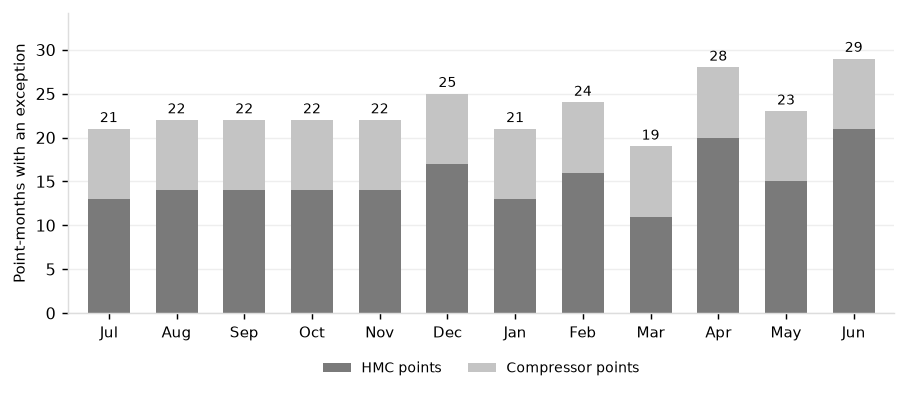
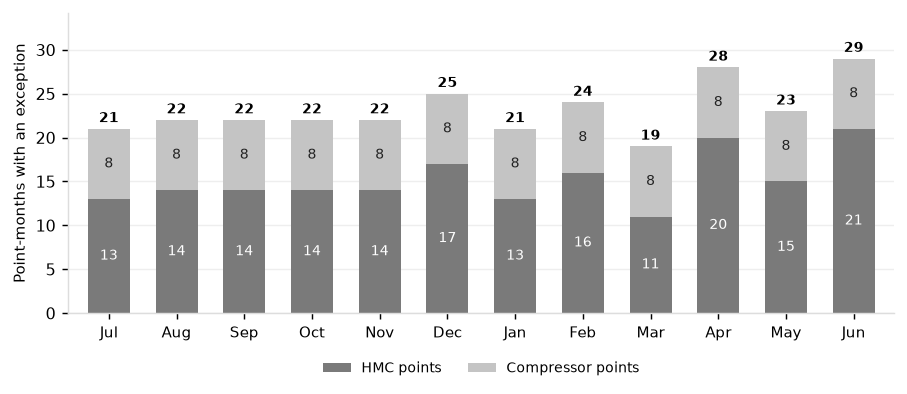
Monitoring report: data labels on the data-quality exception columns

diff --git a/docs/reports/monitoring_report.html b/docs/reports/monitoring_report.html
@@ -78,5 +78,5 @@ table.log td:nth-child(2) { white-space: nowrap; }
 </style></head>
 <body><div class="page-header"><h1>Report: ML Model Monitoring</h1><div class="sub">Created by Brian Davis</div></div>
 <div class="layout"><nav class="toc"><div class="toc-title">Contents</div><a href="#s1">1. Status and Retraining Decision</a><a href="#s2">2. Monitoring Results</a><a class="sub" href="#s21">2.1 Performance</a><a class="sub" href="#s22">2.2 Drift</a><a class="sub" href="#s23">2.3 Data Quality</a><a class="sub" href="#s24">2.4 Champion and Re-centering</a><a href="#s3">3. Monitoring Log</a><a href="#appendix">Appendix</a><a class="sub" href="#aA">Retraining rule</a><a class="sub" href="#aB">Drift references</a></nav>
-<main class="content"><h2 id='s1'>1. Status and Retraining Decision</h2><p>The ML Model was monitored monthly over the evaluation year, July 2025 to June 2026. Catch share and alert rate are the primary rule triggers: when either breaches its limit in two consecutive months, the model is flagged for a full refit. Feature and score drift are secondary rule triggers, reported beside the verdict. The primary rule trigger fired in September and October 2025, on catch shares of 0.33 and 0.50 against a limit of 0.54, so the model is flagged for a full refit; the refit was not run within the evaluation year, and version 13 stayed champion throughout.</p><div class='status-block' style='border-color:#CC0000'><div class='status-header' style='background:#CC0000'><span class='status-icon'>⚠</span><span class='status-label'>REFIT RECOMMENDED</span><span class='status-when'>Triggered Sep 2025</span></div><div class='status-body'><div class='status-meta'><div><span class='meta-label'>Model</span><span class='meta-val'>autoencoder_vendor [16-4-16], version 13, champion all year</span></div><div><span class='meta-label'>Period monitored</span><span class='meta-val'>July 2025 to June 2026</span></div><div><span class='meta-label'>Catch share, year</span><span class='meta-val' style=color:#1A7A3A>23 of 32 (0.72) against a 0.79 reference</span></div><div><span class='meta-label'>Primary rule trigger</span><span class='meta-val' style=color:#CC0000>fired Sep and Oct 2025</span></div><div><span class='meta-label'>Alert rate, year</span><span class='meta-val' style=color:#1A7A3A>0.24 per asset-month, 0.90 of the 0.267 reference</span></div><div><span class='meta-label'>False alerts per asset-month</span><span class='meta-val' style=color:#1A7A3A>0.140, against Vendor Rules&#x27; 0.235</span></div><div><span class='meta-label'>Secondary rule trigger</span><span class='meta-val' style=color:#D4881E>fired in all 12 months</span></div><div><span class='meta-label'>Data-quality exceptions</span><span class='meta-val' style=color:#D4881E>278 point-months, 96 on idle compressors</span></div></div><div><div class='reasons-title'>Trigger Reasons</div><div class='trigger-list'><ul><li>Catch share below the 0.54 limit in August, September and October (0.50, 0.33, 0.50), on 1 of 2, 2 of 6 and 1 of 2 conditions: the primary rule trigger fired in September and October.</li><li>Catch share below the limit again in December (1 of 2), for one month only.</li><li>Alert rate below 0.5 times the reference in August (0.40), for one month only.</li><li>Score drift above the 0.30 share in every month (0.37 to 0.63), and feature drift in 10 of 12 (0.24 to 0.37).</li><li>Compressor points without a measurement for more than 30% of hours in every month, while idle.</li></ul></div></div></div></div><p>The retraining rule is evaluated every month: primary rules decide a refit, and secondary rules flag drift for investigation.</p><div class='matrix-wrap'><table class='matrix'><colgroup><col style='width:10%'><col style='width:27%'><col style='width:15%'><col style='width:4%'><col style='width:4%'><col style='width:4%'><col style='width:4%'><col style='width:4%'><col style='width:4%'><col style='width:4%'><col style='width:4%'><col style='width:4%'><col style='width:4%'><col style='width:4%'><col style='width:4%'></colgroup><thead><tr><th>Tier</th><th>Rule</th><th>Action</th><th class='mc'>Jul</th><th class='mc'>Aug</th><th class='mc'>Sep</th><th class='mc'>Oct</th><th class='mc'>Nov</th><th class='mc'>Dec</th><th class='mc'>Jan</th><th class='mc'>Feb</th><th class='mc'>Mar</th><th class='mc'>Apr</th><th class='mc'>May</th><th class='mc'>Jun</th></tr></thead><tbody><tr><td><span class='tier' style='color:#3D5166'>Primary</span></td><td>Catch share more than 0.25 below the training reference (0.79)</td><td>Refit after 2 consecutive months</td><td class='mc' style='color:#1A7A3A' title='Jul: Pass, 1.00 (1 of 1)'>✓</td><td class='mc' style='color:#D4881E' title='Aug: Watch, 0.50 (1 of 2)'>◐</td><td class='mc' style='color:#CC0000' title='Sep: Refit, 0.33 (2 of 6)'>⚠</td><td class='mc' style='color:#CC0000' title='Oct: Refit, 0.50 (1 of 2)'>⚠</td><td class='mc' style='color:#1A7A3A' title='Nov: Pass, 1.00 (4 of 4)'>✓</td><td class='mc' style='color:#D4881E' title='Dec: Watch, 0.50 (1 of 2)'>◐</td><td class='mc' style='color:#1A7A3A' title='Jan: Pass, 1.00 (3 of 3)'>✓</td><td class='mc' style='color:#1A7A3A' title='Feb: Pass, 1.00 (4 of 4)'>✓</td><td class='mc' style='color:#1A7A3A' title='Mar: Pass, 1.00 (2 of 2)'>✓</td><td class='mc' style='color:#1A7A3A' title='Apr: Pass, 1.00 (1 of 1)'>✓</td><td class='mc' style='color:#1A7A3A' title='May: Pass, 0.60 (3 of 5)'>✓</td><td class='mc' style='color:#AAAAAA' title='Jun: Not evaluated, no conditions'>·</td></tr><tr><td><span class='tier' style='color:#3D5166'>Primary</span></td><td>Alerts per asset-month outside 0.5 to 2.0 times the training reference (0.267)</td><td>Refit after 2 consecutive months</td><td class='mc' style='color:#1A7A3A' title='Jul: Pass, 1.47 of the reference'>✓</td><td class='mc' style='color:#D4881E' title='Aug: Watch, 0.40 of the reference'>◐</td><td class='mc' style='color:#1A7A3A' title='Sep: Pass, 0.94 of the reference'>✓</td><td class='mc' style='color:#1A7A3A' title='Oct: Pass, 0.80 of the reference'>✓</td><td class='mc' style='color:#1A7A3A' title='Nov: Pass, 0.80 of the reference'>✓</td><td class='mc' style='color:#1A7A3A' title='Dec: Pass, 0.94 of the reference'>✓</td><td class='mc' style='color:#1A7A3A' title='Jan: Pass, 0.67 of the reference'>✓</td><td class='mc' style='color:#1A7A3A' title='Feb: Pass, 0.94 of the reference'>✓</td><td class='mc' style='color:#1A7A3A' title='Mar: Pass, 0.94 of the reference'>✓</td><td class='mc' style='color:#1A7A3A' title='Apr: Pass, 1.47 of the reference'>✓</td><td class='mc' style='color:#1A7A3A' title='May: Pass, 0.54 of the reference'>✓</td><td class='mc' style='color:#1A7A3A' title='Jun: Pass, 0.94 of the reference'>✓</td></tr><tr><td><span class='tier' style='color:#555555'>Secondary</span></td><td>More than 30% of point-features drifted (scaled Wasserstein distance above 0.5)</td><td>Investigate</td><td class='mc' style='color:#D4881E' title='Jul: Watch, 0.307 of point-features'>◐</td><td class='mc' style='color:#D4881E' title='Aug: Watch, 0.345 of point-features'>◐</td><td class='mc' style='color:#D4881E' title='Sep: Watch, 0.317 of point-features'>◐</td><td class='mc' style='color:#1A7A3A' title='Oct: Pass, 0.236 of point-features'>✓</td><td class='mc' style='color:#D4881E' title='Nov: Watch, 0.315 of point-features'>◐</td><td class='mc' style='color:#D4881E' title='Dec: Watch, 0.354 of point-features'>◐</td><td class='mc' style='color:#D4881E' title='Jan: Watch, 0.345 of point-features'>◐</td><td class='mc' style='color:#D4881E' title='Feb: Watch, 0.333 of point-features'>◐</td><td class='mc' style='color:#1A7A3A' title='Mar: Pass, 0.280 of point-features'>✓</td><td class='mc' style='color:#D4881E' title='Apr: Watch, 0.365 of point-features'>◐</td><td class='mc' style='color:#D4881E' title='May: Watch, 0.329 of point-features'>◐</td><td class='mc' style='color:#D4881E' title='Jun: Watch, 0.367 of point-features'>◐</td></tr><tr><td><span class='tier' style='color:#555555'>Secondary</span></td><td>More than 30% of point scores drifted (same distance)</td><td>Investigate</td><td class='mc' style='color:#D4881E' title='Jul: Watch, 0.474 of point scores'>◐</td><td class='mc' style='color:#D4881E' title='Aug: Watch, 0.447 of point scores'>◐</td><td class='mc' style='color:#D4881E' title='Sep: Watch, 0.441 of point scores'>◐</td><td class='mc' style='color:#D4881E' title='Oct: Watch, 0.485 of point scores'>◐</td><td class='mc' style='color:#D4881E' title='Nov: Watch, 0.533 of point scores'>◐</td><td class='mc' style='color:#D4881E' title='Dec: Watch, 0.606 of point scores'>◐</td><td class='mc' style='color:#D4881E' title='Jan: Watch, 0.625 of point scores'>◐</td><td class='mc' style='color:#D4881E' title='Feb: Watch, 0.533 of point scores'>◐</td><td class='mc' style='color:#D4881E' title='Mar: Watch, 0.517 of point scores'>◐</td><td class='mc' style='color:#D4881E' title='Apr: Watch, 0.441 of point scores'>◐</td><td class='mc' style='color:#D4881E' title='May: Watch, 0.367 of point scores'>◐</td><td class='mc' style='color:#D4881E' title='Jun: Watch, 0.500 of point scores'>◐</td></tr></tbody></table></div><div class='matrix-legend'><span class='lg'><span style='color:#1A7A3A;font-weight:700;'>✓</span> Rule passes</span><span class='lg'><span style='color:#D4881E;font-weight:700;'>◐</span> Condition met for one month, or drift above the trigger</span><span class='lg'><span style='color:#CC0000;font-weight:700;'>⚠</span> Condition met for 2 consecutive months: refit</span><span class='lg'><span style='color:#AAAAAA;font-weight:700;'>·</span> Not evaluated (no confirmed conditions)</span></div><h2 id='s2'>2. Monitoring Results</h2><h3 id='s21'>2.1 Performance</h3><p>Catch share, the first of the two primary rule triggers, fell below the 0.54 limit in August, September and October, and again in December. Those three months held 10 of the year's 32 conditions and the ML Model caught 4; the 6 misses had no common cause: on 3 the score crossed the threshold without staying above it, 2 fell under an ALERT already open with no sign of the condition, and 1 came while a compressor point was re-centering after a repair. December's miss fell inside the ALERT that had held HMC-02's spindle since July. Every other month with conditions stayed above the limit.</p><div class='chart-title'>Catch share by month</div><img alt="catch share" src="../figures/monitoring_catch_share.png?v=2ad244e4"><p>Alert rate, the second primary rule trigger, left its band once, in August, at 0.40 times the reference: the ML Model opened 3 ALERTs against 11 in July, while episodes opened in July stayed open. Vendor Rules fell the same month, to 0.46 times its reference, with measured hours at their usual level, so August was a quiet month rather than a change in the model.</p><div class='chart-title'>Alert rate against reference by month</div><img alt="alert rate ratio" src="../figures/monitoring_alert_rate_ratio.png?v=d38a961d"><div class='chart-title'>False alerts per asset-month by month</div><img alt="false alerts" src="../figures/monitoring_false_alerts.png?v=f55b5fff"><h3 id='s22'>2.2 Drift</h3><p>The secondary rule trigger flags drift when more than 30% of point-features (each point's 10 vibration measurements) or point scores (the ML Model's anomaly score on each point) sit more than 0.5 in scaled distance from their reference. Point scores drifted in all 12 months and point-features in 10. Drift calls for investigation, not a refit, so it did not change the verdict. The investigation found:</p><ul><li>The drift is in vibration level on the spindles: crest factor and kurtosis drifted in under 5% of point-months, and the compressors barely drifted.</li><li>Narrow references inflate it: points referenced to a re-centering window alone drifted nearly twice as often as points on training references.</li><li>Drift tracks real faults only loosely: point-features drifted twice as often in months with a confirmed condition open on the asset (56% against 27%), but two thirds of drifted point-months had no condition open, so drift alone is a weak sign of a fault.</li><li>One point may show a developing fault: the HMC-07 flood pump drifted in every month, its running-speed energy at 2.5 times its level after the pump was replaced in November 2024, with no inspection since. It is worth an inspection.</li></ul><div class='chart-title'>Share of points drifted by month</div><img alt="drift share" src="../figures/monitoring_drift_share.png?v=014ab03b"><div class='chart-title'>Feature drift by point and month</div><img alt="feature drift" src="../figures/monitoring_feature_drift.png?v=a5b54850"><div class='chart-title'>Score drift by point and month</div><img alt="score drift" src="../figures/monitoring_score_drift.png?v=6b1a939a"><h3 id='s23'>2.3 Data Quality</h3><p>A data-quality exception is a point-month with any implausible rows, or with more than 30% of its scheduled hours without a measurement. Exceptions ran at 19 to 29 point-months a month, 278 in all. The 8 compressor points were exceptions in every month (96): they take no measurement while idle or on standby, 46% of their scheduled hours, and their morning start-ups trip the implausible-row rule (1,965 of their 1,983 implausible rows are temperature jumps as the housing warms from idle: real readings that the jump rule flags). The other 182 are on the HMC points, mostly isolated implausible rows at 0.20% of measured hours, and the HMC point-months above 30% without a measurement are whole machines out of service (HMC-04 in May, HMC-08 in June). Nothing points to a failing sensor.</p><div class='chart-title'>Data-quality exceptions by month</div><img alt="dq exceptions" src="../figures/monitoring_dq_exceptions.png?v=2b33e92c"><div class='chart-title'>Data quality by point and month</div><img alt="data quality" src="../figures/monitoring_data_quality.png?v=f198da65"><h3 id='s24'>2.4 Champion and Re-centering</h3><p>Version 13 passed all five promotion gates once and was champion for the year, with a false-episode rate of 0.042 against a 0.411 limit. 32 points on 22 assets were re-centered 54 times after a repair or remount; the plausibility check flagged 5, on the HMC-01, HMC-03 and HMC-08 spindles.</p><div class='gates'><span class='gate' style='border-color:#1A7A3A'><span style='color:#1A7A3A;font-weight:700;'>✓</span> Selection</span><span class='gate' style='border-color:#1A7A3A'><span style='color:#1A7A3A;font-weight:700;'>✓</span> Parity</span><span class='gate' style='border-color:#1A7A3A'><span style='color:#1A7A3A;font-weight:700;'>✓</span> Points</span><span class='gate' style='border-color:#1A7A3A'><span style='color:#1A7A3A;font-weight:700;'>✓</span> Numerics</span><span class='gate' style='border-color:#1A7A3A'><span style='color:#1A7A3A;font-weight:700;'>✓</span> False episodes</span><span class='gate-model'>Version 13, autoencoder_vendor [16-4-16], promoted</span></div><div class='chart-title'>Post-repair re-centering by asset</div><img alt="recentering" src="../figures/monitoring_recentering.png?v=e11efe87"><h2 id='s3'>3. Monitoring Log</h2><div class='matrix-wrap'><table class='data log'><thead><tr><th>Month</th><th>Verdict</th><th>Reason</th><th>Champion</th></tr></thead><tbody><tr><td>Jul 2025</td><td><span style='color:#1A7A3A;font-weight:700;'>✓ Pass</span></td><td>No primary condition</td><td>v13</td></tr><tr><td>Aug 2025</td><td><span style='color:#D4881E;font-weight:700;'>◐ Watch</span></td><td>Catch share 0.50 (1 of 2) and alert rate 0.40 of the reference, first month outside the limits</td><td>v13</td></tr><tr><td>Sep 2025</td><td><span style='color:#CC0000;font-weight:700;'>⚠ Refit</span></td><td>Catch share 0.33 (2 of 6), second consecutive month: refit triggered</td><td>v13</td></tr><tr><td>Oct 2025</td><td><span style='color:#CC0000;font-weight:700;'>⚠ Refit</span></td><td>Catch share 0.50 (1 of 2), third consecutive month: refit triggered</td><td>v13</td></tr><tr><td>Nov 2025</td><td><span style='color:#1A7A3A;font-weight:700;'>✓ Pass</span></td><td>No primary condition</td><td>v13</td></tr><tr><td>Dec 2025</td><td><span style='color:#D4881E;font-weight:700;'>◐ Watch</span></td><td>Catch share 0.50 (1 of 2), for one month only</td><td>v13</td></tr><tr><td>Jan 2026</td><td><span style='color:#1A7A3A;font-weight:700;'>✓ Pass</span></td><td>No primary condition</td><td>v13</td></tr><tr><td>Feb 2026</td><td><span style='color:#1A7A3A;font-weight:700;'>✓ Pass</span></td><td>No primary condition</td><td>v13</td></tr><tr><td>Mar 2026</td><td><span style='color:#1A7A3A;font-weight:700;'>✓ Pass</span></td><td>No primary condition</td><td>v13</td></tr><tr><td>Apr 2026</td><td><span style='color:#1A7A3A;font-weight:700;'>✓ Pass</span></td><td>No primary condition</td><td>v13</td></tr><tr><td>May 2026</td><td><span style='color:#1A7A3A;font-weight:700;'>✓ Pass</span></td><td>No primary condition</td><td>v13</td></tr><tr><td>Jun 2026</td><td><span style='color:#1A7A3A;font-weight:700;'>✓ Pass</span></td><td>No primary condition; no conditions to score</td><td>v13</td></tr></tbody></table></div><p>The refit the rule calls for (training cutoff moved forward, healthy windows and thresholds re-derived, registered as a challenger for manual review) was not run within the evaluation year, which was held out to score one frozen model.</p><h2 id='appendix'>Appendix</h2><h3 id='aA'>Retraining rule</h3><p>Acted-on alerts remove the failures that would label them, so recall in a live deployment reads lower than the condition record supports.</p><table class="data"><thead><tr><th>Part</th><th>Definition</th></tr></thead><tbody><tr><td class="">Primary rule trigger</td><td class="">Catch share more than 0.25 below the reference catch share on the training folds (July 2024 to June 2025), or alerts per asset-month outside 0.5 to 2.0 times the training reference rate (2024-12-17 to 2025-06-17; for the ML Model, the fold-2 model&#x27;s alerts from 2025-01-01 to 2025-06-17), for 2 consecutive months</td></tr><tr><td class="">Secondary rule trigger</td><td class="">Share of point-features, or of point scores, with scaled Wasserstein distance above 0.5 greater than 0.30</td></tr><tr><td class="">Verdict</td><td class="">Retrain when the primary rule trigger fires; the secondary rule trigger is reported beside it</td></tr><tr><td class="">Action</td><td class="">Review and full refit: training cutoff moved forward, healthy windows and thresholds re-derived, registered as a challenger with auto_promote=false for manual review</td></tr></tbody></table><h3 id='aB'>Drift references</h3><table class="data"><thead><tr><th>Reference</th><th>Definition</th></tr></thead><tbody><tr><td class="">Training reference</td><td class="">2024-12-17 to 2025-06-17, the last six months of training, for points not re-centered after its start; the ML Model score from the fold-2 model, scored from 2025-01-01</td></tr><tr><td class="">Re-centering plus scored days</td><td class="">For a point re-centered after a repair or remount: its re-centering window plus the first 30 scored days with no open episode on the point</td></tr><tr><td class="">Window only</td><td class="">The re-centering window alone when an episode opens within those 30 days; the window is not scored, so the point has no score drift and feature drift is against the narrow window</td></tr><tr><td class="">Compared hours</td><td class="">From the reference&#x27;s end on; hours inside a reference, or after the start of one still forming at the horizon, are not compared</td></tr></tbody></table>
+<main class="content"><h2 id='s1'>1. Status and Retraining Decision</h2><p>The ML Model was monitored monthly over the evaluation year, July 2025 to June 2026. Catch share and alert rate are the primary rule triggers: when either breaches its limit in two consecutive months, the model is flagged for a full refit. Feature and score drift are secondary rule triggers, reported beside the verdict. The primary rule trigger fired in September and October 2025, on catch shares of 0.33 and 0.50 against a limit of 0.54, so the model is flagged for a full refit; the refit was not run within the evaluation year, and version 13 stayed champion throughout.</p><div class='status-block' style='border-color:#CC0000'><div class='status-header' style='background:#CC0000'><span class='status-icon'>⚠</span><span class='status-label'>REFIT RECOMMENDED</span><span class='status-when'>Triggered Sep 2025</span></div><div class='status-body'><div class='status-meta'><div><span class='meta-label'>Model</span><span class='meta-val'>autoencoder_vendor [16-4-16], version 13, champion all year</span></div><div><span class='meta-label'>Period monitored</span><span class='meta-val'>July 2025 to June 2026</span></div><div><span class='meta-label'>Catch share, year</span><span class='meta-val' style=color:#1A7A3A>23 of 32 (0.72) against a 0.79 reference</span></div><div><span class='meta-label'>Primary rule trigger</span><span class='meta-val' style=color:#CC0000>fired Sep and Oct 2025</span></div><div><span class='meta-label'>Alert rate, year</span><span class='meta-val' style=color:#1A7A3A>0.24 per asset-month, 0.90 of the 0.267 reference</span></div><div><span class='meta-label'>False alerts per asset-month</span><span class='meta-val' style=color:#1A7A3A>0.140, against Vendor Rules&#x27; 0.235</span></div><div><span class='meta-label'>Secondary rule trigger</span><span class='meta-val' style=color:#D4881E>fired in all 12 months</span></div><div><span class='meta-label'>Data-quality exceptions</span><span class='meta-val' style=color:#D4881E>278 point-months, 96 on idle compressors</span></div></div><div><div class='reasons-title'>Trigger Reasons</div><div class='trigger-list'><ul><li>Catch share below the 0.54 limit in August, September and October (0.50, 0.33, 0.50), on 1 of 2, 2 of 6 and 1 of 2 conditions: the primary rule trigger fired in September and October.</li><li>Catch share below the limit again in December (1 of 2), for one month only.</li><li>Alert rate below 0.5 times the reference in August (0.40), for one month only.</li><li>Score drift above the 0.30 share in every month (0.37 to 0.63), and feature drift in 10 of 12 (0.24 to 0.37).</li><li>Compressor points without a measurement for more than 30% of hours in every month, while idle.</li></ul></div></div></div></div><p>The retraining rule is evaluated every month: primary rules decide a refit, and secondary rules flag drift for investigation.</p><div class='matrix-wrap'><table class='matrix'><colgroup><col style='width:10%'><col style='width:27%'><col style='width:15%'><col style='width:4%'><col style='width:4%'><col style='width:4%'><col style='width:4%'><col style='width:4%'><col style='width:4%'><col style='width:4%'><col style='width:4%'><col style='width:4%'><col style='width:4%'><col style='width:4%'><col style='width:4%'></colgroup><thead><tr><th>Tier</th><th>Rule</th><th>Action</th><th class='mc'>Jul</th><th class='mc'>Aug</th><th class='mc'>Sep</th><th class='mc'>Oct</th><th class='mc'>Nov</th><th class='mc'>Dec</th><th class='mc'>Jan</th><th class='mc'>Feb</th><th class='mc'>Mar</th><th class='mc'>Apr</th><th class='mc'>May</th><th class='mc'>Jun</th></tr></thead><tbody><tr><td><span class='tier' style='color:#3D5166'>Primary</span></td><td>Catch share more than 0.25 below the training reference (0.79)</td><td>Refit after 2 consecutive months</td><td class='mc' style='color:#1A7A3A' title='Jul: Pass, 1.00 (1 of 1)'>✓</td><td class='mc' style='color:#D4881E' title='Aug: Watch, 0.50 (1 of 2)'>◐</td><td class='mc' style='color:#CC0000' title='Sep: Refit, 0.33 (2 of 6)'>⚠</td><td class='mc' style='color:#CC0000' title='Oct: Refit, 0.50 (1 of 2)'>⚠</td><td class='mc' style='color:#1A7A3A' title='Nov: Pass, 1.00 (4 of 4)'>✓</td><td class='mc' style='color:#D4881E' title='Dec: Watch, 0.50 (1 of 2)'>◐</td><td class='mc' style='color:#1A7A3A' title='Jan: Pass, 1.00 (3 of 3)'>✓</td><td class='mc' style='color:#1A7A3A' title='Feb: Pass, 1.00 (4 of 4)'>✓</td><td class='mc' style='color:#1A7A3A' title='Mar: Pass, 1.00 (2 of 2)'>✓</td><td class='mc' style='color:#1A7A3A' title='Apr: Pass, 1.00 (1 of 1)'>✓</td><td class='mc' style='color:#1A7A3A' title='May: Pass, 0.60 (3 of 5)'>✓</td><td class='mc' style='color:#AAAAAA' title='Jun: Not evaluated, no conditions'>·</td></tr><tr><td><span class='tier' style='color:#3D5166'>Primary</span></td><td>Alerts per asset-month outside 0.5 to 2.0 times the training reference (0.267)</td><td>Refit after 2 consecutive months</td><td class='mc' style='color:#1A7A3A' title='Jul: Pass, 1.47 of the reference'>✓</td><td class='mc' style='color:#D4881E' title='Aug: Watch, 0.40 of the reference'>◐</td><td class='mc' style='color:#1A7A3A' title='Sep: Pass, 0.94 of the reference'>✓</td><td class='mc' style='color:#1A7A3A' title='Oct: Pass, 0.80 of the reference'>✓</td><td class='mc' style='color:#1A7A3A' title='Nov: Pass, 0.80 of the reference'>✓</td><td class='mc' style='color:#1A7A3A' title='Dec: Pass, 0.94 of the reference'>✓</td><td class='mc' style='color:#1A7A3A' title='Jan: Pass, 0.67 of the reference'>✓</td><td class='mc' style='color:#1A7A3A' title='Feb: Pass, 0.94 of the reference'>✓</td><td class='mc' style='color:#1A7A3A' title='Mar: Pass, 0.94 of the reference'>✓</td><td class='mc' style='color:#1A7A3A' title='Apr: Pass, 1.47 of the reference'>✓</td><td class='mc' style='color:#1A7A3A' title='May: Pass, 0.54 of the reference'>✓</td><td class='mc' style='color:#1A7A3A' title='Jun: Pass, 0.94 of the reference'>✓</td></tr><tr><td><span class='tier' style='color:#555555'>Secondary</span></td><td>More than 30% of point-features drifted (scaled Wasserstein distance above 0.5)</td><td>Investigate</td><td class='mc' style='color:#D4881E' title='Jul: Watch, 0.307 of point-features'>◐</td><td class='mc' style='color:#D4881E' title='Aug: Watch, 0.345 of point-features'>◐</td><td class='mc' style='color:#D4881E' title='Sep: Watch, 0.317 of point-features'>◐</td><td class='mc' style='color:#1A7A3A' title='Oct: Pass, 0.236 of point-features'>✓</td><td class='mc' style='color:#D4881E' title='Nov: Watch, 0.315 of point-features'>◐</td><td class='mc' style='color:#D4881E' title='Dec: Watch, 0.354 of point-features'>◐</td><td class='mc' style='color:#D4881E' title='Jan: Watch, 0.345 of point-features'>◐</td><td class='mc' style='color:#D4881E' title='Feb: Watch, 0.333 of point-features'>◐</td><td class='mc' style='color:#1A7A3A' title='Mar: Pass, 0.280 of point-features'>✓</td><td class='mc' style='color:#D4881E' title='Apr: Watch, 0.365 of point-features'>◐</td><td class='mc' style='color:#D4881E' title='May: Watch, 0.329 of point-features'>◐</td><td class='mc' style='color:#D4881E' title='Jun: Watch, 0.367 of point-features'>◐</td></tr><tr><td><span class='tier' style='color:#555555'>Secondary</span></td><td>More than 30% of point scores drifted (same distance)</td><td>Investigate</td><td class='mc' style='color:#D4881E' title='Jul: Watch, 0.474 of point scores'>◐</td><td class='mc' style='color:#D4881E' title='Aug: Watch, 0.447 of point scores'>◐</td><td class='mc' style='color:#D4881E' title='Sep: Watch, 0.441 of point scores'>◐</td><td class='mc' style='color:#D4881E' title='Oct: Watch, 0.485 of point scores'>◐</td><td class='mc' style='color:#D4881E' title='Nov: Watch, 0.533 of point scores'>◐</td><td class='mc' style='color:#D4881E' title='Dec: Watch, 0.606 of point scores'>◐</td><td class='mc' style='color:#D4881E' title='Jan: Watch, 0.625 of point scores'>◐</td><td class='mc' style='color:#D4881E' title='Feb: Watch, 0.533 of point scores'>◐</td><td class='mc' style='color:#D4881E' title='Mar: Watch, 0.517 of point scores'>◐</td><td class='mc' style='color:#D4881E' title='Apr: Watch, 0.441 of point scores'>◐</td><td class='mc' style='color:#D4881E' title='May: Watch, 0.367 of point scores'>◐</td><td class='mc' style='color:#D4881E' title='Jun: Watch, 0.500 of point scores'>◐</td></tr></tbody></table></div><div class='matrix-legend'><span class='lg'><span style='color:#1A7A3A;font-weight:700;'>✓</span> Rule passes</span><span class='lg'><span style='color:#D4881E;font-weight:700;'>◐</span> Condition met for one month, or drift above the trigger</span><span class='lg'><span style='color:#CC0000;font-weight:700;'>⚠</span> Condition met for 2 consecutive months: refit</span><span class='lg'><span style='color:#AAAAAA;font-weight:700;'>·</span> Not evaluated (no confirmed conditions)</span></div><h2 id='s2'>2. Monitoring Results</h2><h3 id='s21'>2.1 Performance</h3><p>Catch share, the first of the two primary rule triggers, fell below the 0.54 limit in August, September and October, and again in December. Those three months held 10 of the year's 32 conditions and the ML Model caught 4; the 6 misses had no common cause: on 3 the score crossed the threshold without staying above it, 2 fell under an ALERT already open with no sign of the condition, and 1 came while a compressor point was re-centering after a repair. December's miss fell inside the ALERT that had held HMC-02's spindle since July. Every other month with conditions stayed above the limit.</p><div class='chart-title'>Catch share by month</div><img alt="catch share" src="../figures/monitoring_catch_share.png?v=2ad244e4"><p>Alert rate, the second primary rule trigger, left its band once, in August, at 0.40 times the reference: the ML Model opened 3 ALERTs against 11 in July, while episodes opened in July stayed open. Vendor Rules fell the same month, to 0.46 times its reference, with measured hours at their usual level, so August was a quiet month rather than a change in the model.</p><div class='chart-title'>Alert rate against reference by month</div><img alt="alert rate ratio" src="../figures/monitoring_alert_rate_ratio.png?v=d38a961d"><div class='chart-title'>False alerts per asset-month by month</div><img alt="false alerts" src="../figures/monitoring_false_alerts.png?v=f55b5fff"><h3 id='s22'>2.2 Drift</h3><p>The secondary rule trigger flags drift when more than 30% of point-features (each point's 10 vibration measurements) or point scores (the ML Model's anomaly score on each point) sit more than 0.5 in scaled distance from their reference. Point scores drifted in all 12 months and point-features in 10. Drift calls for investigation, not a refit, so it did not change the verdict. The investigation found:</p><ul><li>The drift is in vibration level on the spindles: crest factor and kurtosis drifted in under 5% of point-months, and the compressors barely drifted.</li><li>Narrow references inflate it: points referenced to a re-centering window alone drifted nearly twice as often as points on training references.</li><li>Drift tracks real faults only loosely: point-features drifted twice as often in months with a confirmed condition open on the asset (56% against 27%), but two thirds of drifted point-months had no condition open, so drift alone is a weak sign of a fault.</li><li>One point may show a developing fault: the HMC-07 flood pump drifted in every month, its running-speed energy at 2.5 times its level after the pump was replaced in November 2024, with no inspection since. It is worth an inspection.</li></ul><div class='chart-title'>Share of points drifted by month</div><img alt="drift share" src="../figures/monitoring_drift_share.png?v=014ab03b"><div class='chart-title'>Feature drift by point and month</div><img alt="feature drift" src="../figures/monitoring_feature_drift.png?v=a5b54850"><div class='chart-title'>Score drift by point and month</div><img alt="score drift" src="../figures/monitoring_score_drift.png?v=6b1a939a"><h3 id='s23'>2.3 Data Quality</h3><p>A data-quality exception is a point-month with any implausible rows, or with more than 30% of its scheduled hours without a measurement. Exceptions ran at 19 to 29 point-months a month, 278 in all. The 8 compressor points were exceptions in every month (96): they take no measurement while idle or on standby, 46% of their scheduled hours, and their morning start-ups trip the implausible-row rule (1,965 of their 1,983 implausible rows are temperature jumps as the housing warms from idle: real readings that the jump rule flags). The other 182 are on the HMC points, mostly isolated implausible rows at 0.20% of measured hours, and the HMC point-months above 30% without a measurement are whole machines out of service (HMC-04 in May, HMC-08 in June). Nothing points to a failing sensor.</p><div class='chart-title'>Data-quality exceptions by month</div><img alt="dq exceptions" src="../figures/monitoring_dq_exceptions.png?v=2685116d"><div class='chart-title'>Data quality by point and month</div><img alt="data quality" src="../figures/monitoring_data_quality.png?v=f198da65"><h3 id='s24'>2.4 Champion and Re-centering</h3><p>Version 13 passed all five promotion gates once and was champion for the year, with a false-episode rate of 0.042 against a 0.411 limit. 32 points on 22 assets were re-centered 54 times after a repair or remount; the plausibility check flagged 5, on the HMC-01, HMC-03 and HMC-08 spindles.</p><div class='gates'><span class='gate' style='border-color:#1A7A3A'><span style='color:#1A7A3A;font-weight:700;'>✓</span> Selection</span><span class='gate' style='border-color:#1A7A3A'><span style='color:#1A7A3A;font-weight:700;'>✓</span> Parity</span><span class='gate' style='border-color:#1A7A3A'><span style='color:#1A7A3A;font-weight:700;'>✓</span> Points</span><span class='gate' style='border-color:#1A7A3A'><span style='color:#1A7A3A;font-weight:700;'>✓</span> Numerics</span><span class='gate' style='border-color:#1A7A3A'><span style='color:#1A7A3A;font-weight:700;'>✓</span> False episodes</span><span class='gate-model'>Version 13, autoencoder_vendor [16-4-16], promoted</span></div><div class='chart-title'>Post-repair re-centering by asset</div><img alt="recentering" src="../figures/monitoring_recentering.png?v=e11efe87"><h2 id='s3'>3. Monitoring Log</h2><div class='matrix-wrap'><table class='data log'><thead><tr><th>Month</th><th>Verdict</th><th>Reason</th><th>Champion</th></tr></thead><tbody><tr><td>Jul 2025</td><td><span style='color:#1A7A3A;font-weight:700;'>✓ Pass</span></td><td>No primary condition</td><td>v13</td></tr><tr><td>Aug 2025</td><td><span style='color:#D4881E;font-weight:700;'>◐ Watch</span></td><td>Catch share 0.50 (1 of 2) and alert rate 0.40 of the reference, first month outside the limits</td><td>v13</td></tr><tr><td>Sep 2025</td><td><span style='color:#CC0000;font-weight:700;'>⚠ Refit</span></td><td>Catch share 0.33 (2 of 6), second consecutive month: refit triggered</td><td>v13</td></tr><tr><td>Oct 2025</td><td><span style='color:#CC0000;font-weight:700;'>⚠ Refit</span></td><td>Catch share 0.50 (1 of 2), third consecutive month: refit triggered</td><td>v13</td></tr><tr><td>Nov 2025</td><td><span style='color:#1A7A3A;font-weight:700;'>✓ Pass</span></td><td>No primary condition</td><td>v13</td></tr><tr><td>Dec 2025</td><td><span style='color:#D4881E;font-weight:700;'>◐ Watch</span></td><td>Catch share 0.50 (1 of 2), for one month only</td><td>v13</td></tr><tr><td>Jan 2026</td><td><span style='color:#1A7A3A;font-weight:700;'>✓ Pass</span></td><td>No primary condition</td><td>v13</td></tr><tr><td>Feb 2026</td><td><span style='color:#1A7A3A;font-weight:700;'>✓ Pass</span></td><td>No primary condition</td><td>v13</td></tr><tr><td>Mar 2026</td><td><span style='color:#1A7A3A;font-weight:700;'>✓ Pass</span></td><td>No primary condition</td><td>v13</td></tr><tr><td>Apr 2026</td><td><span style='color:#1A7A3A;font-weight:700;'>✓ Pass</span></td><td>No primary condition</td><td>v13</td></tr><tr><td>May 2026</td><td><span style='color:#1A7A3A;font-weight:700;'>✓ Pass</span></td><td>No primary condition</td><td>v13</td></tr><tr><td>Jun 2026</td><td><span style='color:#1A7A3A;font-weight:700;'>✓ Pass</span></td><td>No primary condition; no conditions to score</td><td>v13</td></tr></tbody></table></div><p>The refit the rule calls for (training cutoff moved forward, healthy windows and thresholds re-derived, registered as a challenger for manual review) was not run within the evaluation year, which was held out to score one frozen model.</p><h2 id='appendix'>Appendix</h2><h3 id='aA'>Retraining rule</h3><p>Acted-on alerts remove the failures that would label them, so recall in a live deployment reads lower than the condition record supports.</p><table class="data"><thead><tr><th>Part</th><th>Definition</th></tr></thead><tbody><tr><td class="">Primary rule trigger</td><td class="">Catch share more than 0.25 below the reference catch share on the training folds (July 2024 to June 2025), or alerts per asset-month outside 0.5 to 2.0 times the training reference rate (2024-12-17 to 2025-06-17; for the ML Model, the fold-2 model&#x27;s alerts from 2025-01-01 to 2025-06-17), for 2 consecutive months</td></tr><tr><td class="">Secondary rule trigger</td><td class="">Share of point-features, or of point scores, with scaled Wasserstein distance above 0.5 greater than 0.30</td></tr><tr><td class="">Verdict</td><td class="">Retrain when the primary rule trigger fires; the secondary rule trigger is reported beside it</td></tr><tr><td class="">Action</td><td class="">Review and full refit: training cutoff moved forward, healthy windows and thresholds re-derived, registered as a challenger with auto_promote=false for manual review</td></tr></tbody></table><h3 id='aB'>Drift references</h3><table class="data"><thead><tr><th>Reference</th><th>Definition</th></tr></thead><tbody><tr><td class="">Training reference</td><td class="">2024-12-17 to 2025-06-17, the last six months of training, for points not re-centered after its start; the ML Model score from the fold-2 model, scored from 2025-01-01</td></tr><tr><td class="">Re-centering plus scored days</td><td class="">For a point re-centered after a repair or remount: its re-centering window plus the first 30 scored days with no open episode on the point</td></tr><tr><td class="">Window only</td><td class="">The re-centering window alone when an episode opens within those 30 days; the window is not scored, so the point has no score drift and feature drift is against the narrow window</td></tr><tr><td class="">Compared hours</td><td class="">From the reference&#x27;s end on; hours inside a reference, or after the start of one still forming at the horizon, are not compared</td></tr></tbody></table>
 </main></div></body></html>

diff --git a/src/pdm/reports/monitoring_report.py b/src/pdm/reports/monitoring_report.py
@@ -566,7 +566,11 @@ class MonitoringReport:
         ax.bar(x, hmc, width=0.62, color=HMC_SHADE, label="HMC points")
         ax.bar(x, cmp_, width=0.62, bottom=hmc, color=CMP_SHADE, label="Compressor points")
         for i, (a, b) in enumerate(zip(hmc, cmp_, strict=True)):
-            ax.text(i, a + b + 0.4, str(a + b), ha="center", va="bottom", fontsize=7.5)
+            if a:
+                ax.text(i, a / 2, str(a), ha="center", va="center", fontsize=7.5, color="white")
+            if b:
+                ax.text(i, a + b / 2, str(b), ha="center", va="center", fontsize=7.5, color=style.TEXT)
+            ax.text(i, a + b + 0.4, str(a + b), ha="center", va="bottom", fontsize=7.5, fontweight="bold")
         ax.set_ylim(0, float((hmc + cmp_).max()) * 1.18)
         ax.set_ylabel("Point-months with an exception", fontsize=8.5)
         ax.legend(frameon=False, fontsize=7.5, loc="upper center", bbox_to_anchor=(0.5, -0.12), ncol=2)
